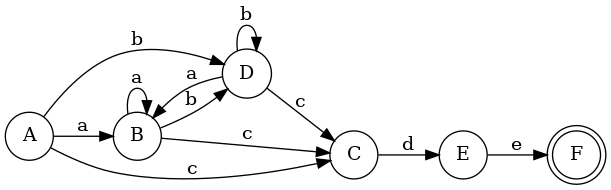
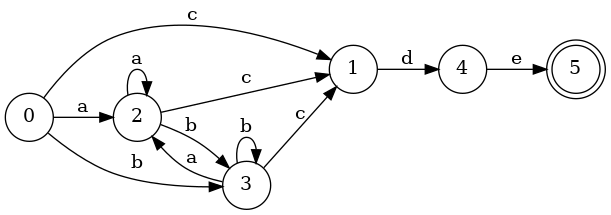
Remove silly alphabet in DFA

diff --git a/src/state.rs b/src/state.rs
@@ -325,9 +325,6 @@ impl<'a> DfaState<'a> {
     }
 
     pub fn graphviz(&self, graph_name: &str) -> String {
-        fn id_to_label(id: usize) -> char {
-            (id as u8 + 65) as char
-        }
         let mut edges = Vec::new();
 
         let mut queue = VecDeque::new();
@@ -339,7 +336,7 @@ impl<'a> DfaState<'a> {
             if visited.contains(&state.id) {
                 continue;
             }
-            let id = id_to_label(state.id);
+            let id = state.id;
             let shape = if state.is_accepting() {
                 "doublecircle"
             } else {
@@ -349,10 +346,7 @@ impl<'a> DfaState<'a> {
             edges.push(format!("{id} [shape={shape}]"));
             for t in transitions.iter() {
                 let label = t.lexeme;
-                edges.push(format!(
-                    "{id} -> {} [label=\"{label}\"]",
-                    id_to_label(t.state.id)
-                ));
+                edges.push(format!("{id} -> {} [label=\"{label}\"]", t.state.id));
                 queue.push_back(t.state);
             }
             visited.insert(state.id);
